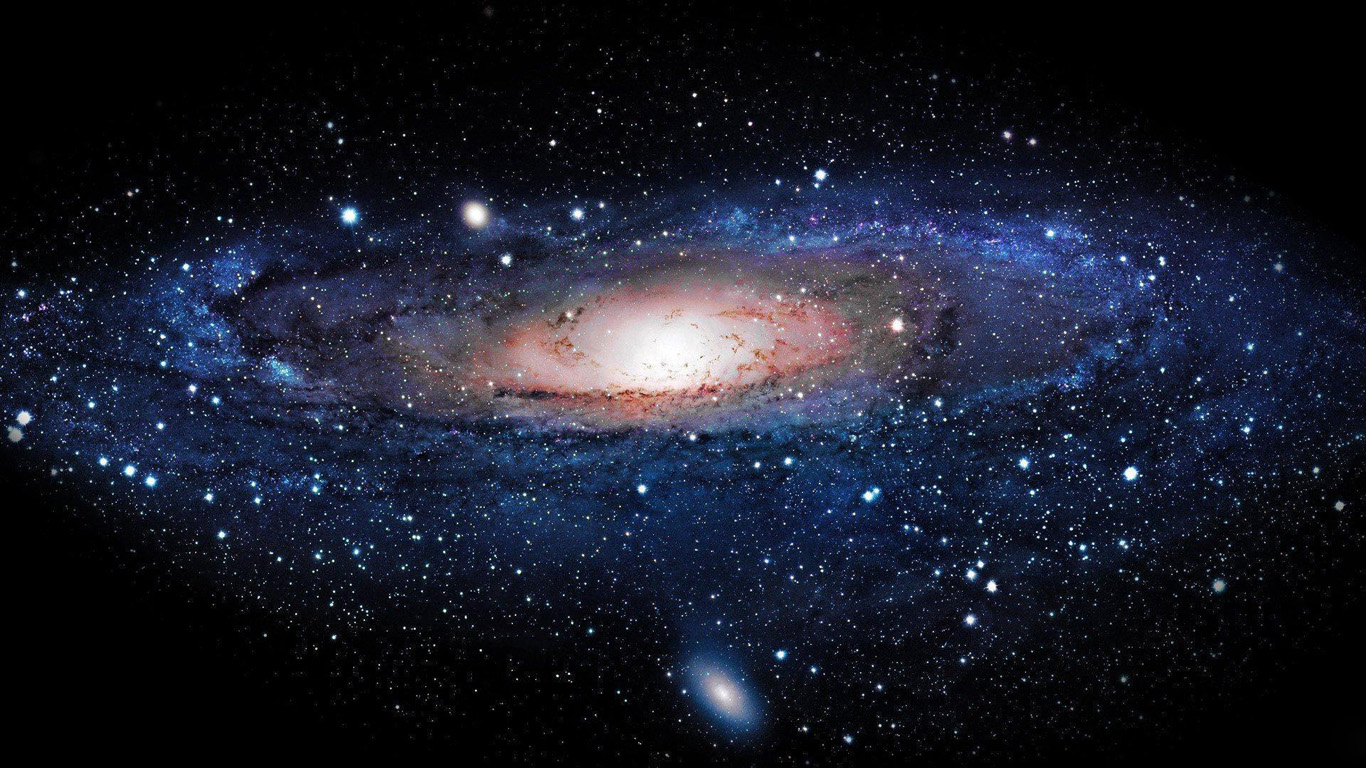
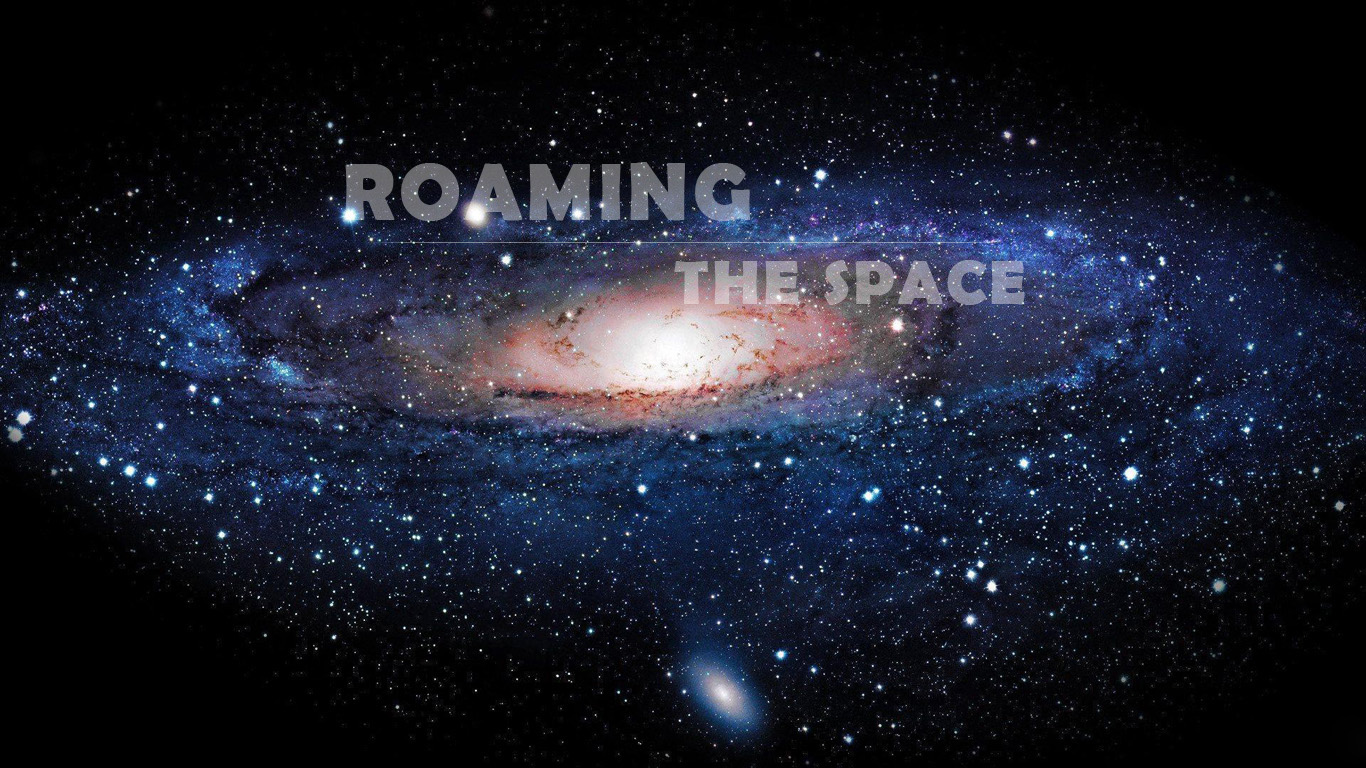
2014.08.09

Changed region(s): [[0.246, 0.1875, 0.7687, 0.4062]]

diff --git a/javascript/index.js b/javascript/index.js
@@ -1,5 +1,4 @@
 function init() {
-
 	var canvas = document.getElementById('rocket'),
 		stage = new createjs.Stage(canvas),
 		conterX = canvas.width/2,
@@ -17,9 +16,8 @@ function init() {
 	    }
 	}
 	canvas.width = w;
-	canvas.height = h - 30  ;
-		
-	
+	canvas.height = h;
+
 	var shape = new createjs.Bitmap('images/rocket.png');
 	shape.x = conterX;
 	shape.y = conterY;
@@ -32,14 +30,11 @@ function init() {
 
   		var difX = stage.mouseX - shape.x;
   		var difY = stage.mouseY - shape.y;
-
 	  	shape.x += difX/5;
 	 	shape.y += difY/5;
+
 
 		shape.rotation = Math.atan2(difY, difX) * 180/ Math.PI ;
 	 	stage.update();
 	 });
 }
-
-
-

diff --git a/css/style.css b/css/style.css
@@ -4,5 +4,27 @@
 }
 body {
 	background-image: url(../images/background1.jpg);
-	background-size: cover;
+	background-repeat: no-repeat;
+
+}
+#rocket {
+	position: absolute;
+	top: 0;
+	left: 0;
+}
+
+a#roaming:link,a#roaming:visited{
+	display: block;
+	position: absolute;
+	left: 50%;
+	margin-left: -90px;
+	margin-top: 35%;
+	background: url(../images/button.png) no-repeat;
+	width: 186px;
+	height: 48px;
+	text-indent: -9999px;
+}
+
+a#roaming:hover,a#roaming:active {
+	background-position: -186px 0;
 }

diff --git a/index.html b/index.html
@@ -9,6 +9,6 @@
 </head>
 <body onLoad="init()">
 	<canvas id="rocket">Your browser do not support HTML5</canvas>
-
+	<a id="roaming" href="#">MOVING</a>
 </body>
 </html>
